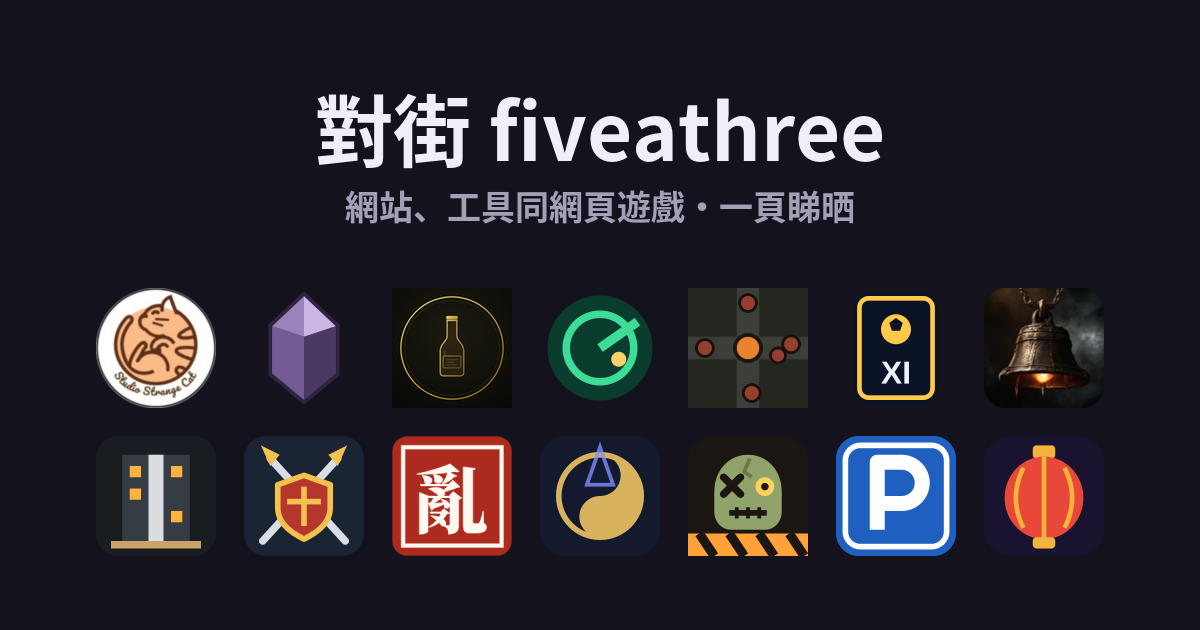
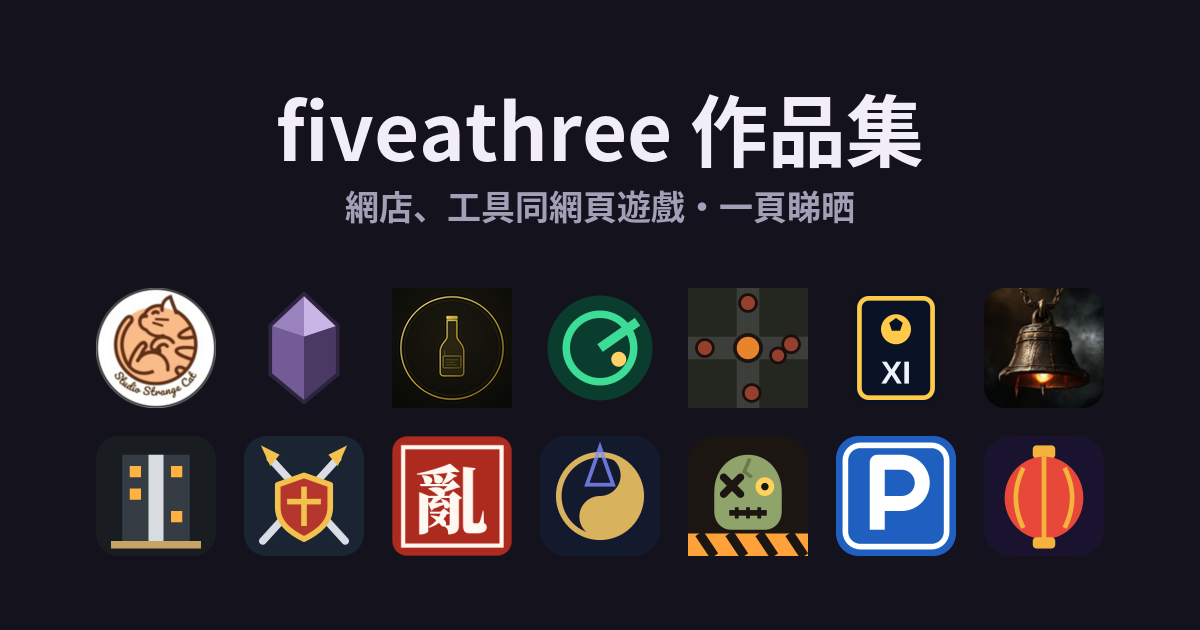
改用 AnL 式分頁（全部／網店／工具／遊戲＋遊戲子分類），拎走「對街」
Claude-Session: https://claude.ai/code/session_016rYcVTCdU8P3QRKu3TJWY2

Changed region(s): [[0.2158, 0.1508, 0.7708, 0.2714], [0.3083, 0.3016, 0.3392, 0.3619]]

diff --git a/index.html b/index.html
@@ -3,80 +3,129 @@
 <head>
 <meta charset="utf-8">
 <meta name="viewport" content="width=device-width, initial-scale=1">
-<title>對街 fiveathree｜作品集</title>
-<meta name="description" content="fiveathree 用 AI 做嘅網站、工具同網頁遊戲，一頁睇晒，撳入去即玩。">
+<title>fiveathree 作品集</title>
+<meta name="description" content="fiveathree 用 AI 做嘅網店、工具同網頁遊戲，一頁睇晒，撳入去即玩。">
 <link rel="icon" href="favicon.svg" type="image/svg+xml">
 <link rel="apple-touch-icon" href="apple-touch-icon.png">
 <meta property="og:type" content="website">
-<meta property="og:title" content="對街 fiveathree｜作品集">
-<meta property="og:description" content="網站、工具同網頁遊戲，一頁睇晒，撳入去即玩。">
+<meta property="og:title" content="fiveathree 作品集">
+<meta property="og:description" content="網店、工具同網頁遊戲，一頁睇晒，撳入去即玩。">
 <meta property="og:url" content="https://fiveathree.github.io/allstuff/">
 <meta property="og:image" content="https://fiveathree.github.io/allstuff/og.png">
 <meta name="twitter:card" content="summary_large_image">
 <style>
-  :root { --bg:#14121c; --card:#1f1c2b; --line:#2e2a40; --text:#f1eef8; --mute:#a39fb6; --acc:#ffb547; --game:#7fd6c2; }
+  :root { --bg:#14121c; --panel:#1f1c2b; --line:#2e2a40; --ink:#f1eef8; --ink2:#a39fb6; --accent:#ffb547; }
   * { box-sizing:border-box; margin:0; }
   body { font-family:system-ui,-apple-system,"PingFang TC","Noto Sans TC","Microsoft JhengHei",sans-serif;
-         background:var(--bg); color:var(--text); min-height:100dvh; display:flex; flex-direction:column;
-         padding:12px clamp(12px,3vw,32px); gap:8px; }
-  header { width:100%; max-width:1100px; margin:0 auto; display:flex; align-items:baseline; gap:12px; flex-wrap:wrap; }
-  h1 { font-size:22px; letter-spacing:.5px; }
-  h1 span { color:var(--acc); }
-  header p { color:var(--mute); font-size:13px; }
-  main { flex:1; display:grid; grid-template-columns:1fr 1fr; grid-auto-rows:minmax(44px,1fr); gap:6px;
-         width:100%; max-width:1100px; margin:0 auto; }
-  a.card { display:flex; align-items:center; gap:12px; padding:4px 12px; background:var(--card);
-           border:1px solid var(--line); border-radius:12px; color:inherit; text-decoration:none; min-width:0;
+         background:var(--bg); color:var(--ink); font-size:14px; }
+  .wrap { max-width:1100px; margin:0 auto; padding:0 clamp(12px,3vw,24px) 16px; }
+  .navwrap { position:sticky; top:0; z-index:5; background:var(--bg); box-shadow:0 6px 8px -8px rgba(0,0,0,.5); }
+  .top { display:flex; align-items:baseline; gap:12px; padding:12px 0 2px; flex-wrap:wrap; }
+  .top h1 { font-size:18px; }
+  .top p { color:var(--ink2); font-size:13px; }
+  .tabs { display:flex; gap:4px; border-bottom:1px solid var(--line); overflow-x:auto; }
+  .tabs button { border:0; background:none; font:inherit; color:var(--ink2); padding:9px 14px; cursor:pointer;
+                 border-bottom:2px solid transparent; white-space:nowrap; }
+  .tabs button[aria-selected="true"] { color:var(--ink); border-bottom-color:var(--accent); font-weight:600; }
+  .tabs .n { font-size:12px; color:var(--ink2); margin-left:4px; font-weight:400; }
+  .subtabs { display:flex; gap:6px; overflow-x:auto; padding:8px 0; }
+  .subtabs[hidden] { display:none; }
+  .subtabs button { border:1px solid var(--line); background:var(--panel); font:inherit; font-size:13px; color:var(--ink2);
+                    padding:4px 12px; border-radius:14px; cursor:pointer; white-space:nowrap; }
+  .subtabs button[aria-selected="true"] { background:var(--accent); border-color:var(--accent); color:var(--bg); font-weight:600; }
+  section { margin-top:10px; }
+  section h2 { font-size:13px; color:var(--ink2); font-weight:600; margin:0 0 4px 2px; }
+  .grid { display:grid; grid-template-columns:1fr 1fr; gap:6px; }
+  a.card { display:flex; align-items:center; gap:12px; padding:5px 12px; background:var(--panel);
+           border:1px solid var(--line); border-radius:10px; color:inherit; text-decoration:none; min-width:0;
            transition:transform .12s, border-color .12s; }
-  a.card:hover, a.card:focus-visible { transform:translateY(-2px); border-color:var(--acc); outline:none; }
-  a.card img { width:34px; height:34px; border-radius:9px; flex:none; object-fit:contain; }
-  .txt { min-width:0; }
-  .name { font-weight:700; font-size:15px; display:flex; gap:6px; align-items:center; }
-  .tag { font-size:11px; font-weight:600; padding:1px 6px; border-radius:6px; background:#ffb54722; color:var(--acc); }
-  .tag.g { background:#7fd6c222; color:var(--game); }
-  .desc { color:var(--mute); font-size:12.5px; white-space:nowrap; overflow:hidden; text-overflow:ellipsis; }
-  footer { text-align:center; color:var(--mute); font-size:12px; }
+  a.card:hover, a.card:focus-visible { transform:translateY(-2px); border-color:var(--accent); outline:none; }
+  a.card img { width:30px; height:30px; border-radius:8px; flex:none; object-fit:contain; }
+  .txt { min-width:0; display:flex; align-items:baseline; gap:10px; }
+  .desc { flex:1; }
+  body:not([data-cat="all"]) section h2 { display:none; }
+  .name { font-weight:700; font-size:15px; }
+  .desc { color:var(--ink2); font-size:12.5px; white-space:nowrap; overflow:hidden; text-overflow:ellipsis; }
+  [hidden] { display:none !important; }
+  footer { text-align:center; color:var(--ink2); font-size:12px; margin-top:14px; }
   @media (max-width:560px) {
     a.card { flex-direction:column; text-align:center; gap:3px; padding:8px 6px; }
-    .name { flex-direction:column; gap:2px; font-size:14px; }
-    .tag { display:none; }
-    .txt { width:100%; }
-    .desc { font-size:11.5px; max-width:100%; }
+    .txt { width:100%; display:block; }
+    .name { font-size:14px; }
+    .desc { font-size:11.5px; }
   }
 </style>
 </head>
 <body>
-<header>
-  <h1>對街 <span>fiveathree</span></h1>
-  <p>用 AI 做嘅網站、工具同網頁遊戲・撳入去即玩</p>
-</header>
+<div class="navwrap"><div class="wrap" style="padding-bottom:0">
+  <header class="top"><h1>fiveathree 作品集</h1><p>用 AI 做嘅網店、工具同網頁遊戲・撳入去即玩</p></header>
+  <nav class="tabs" id="tabs" role="tablist">
+    <button role="tab" data-cat="all" aria-selected="true">全部<span class="n">23</span></button>
+    <button role="tab" data-cat="shop">網店<span class="n">2</span></button>
+    <button role="tab" data-cat="tool">工具<span class="n">7</span></button>
+    <button role="tab" data-cat="game">遊戲<span class="n">14</span></button>
+  </nav>
+  <nav class="subtabs" id="subtabs" role="tablist" hidden>
+    <button role="tab" data-sub="all" aria-selected="true">全部</button>
+    <button role="tab" data-sub="act">動作冒險</button>
+    <button role="tab" data-sub="sim">策略經營</button>
+    <button role="tab" data-sub="fun">休閒模擬</button>
+  </nav>
+</div></div>
 
-<main>
-  <a class="card" href="https://fiveathree.github.io/strangecatstudio/"><img src="icons/strangecatstudio.png" alt=""><div class="txt"><div class="name">奇怪貓工作室<span class="tag">網站</span></div><div class="desc">手工宇宙玻璃、玻璃鑽石飾品同紀念琉璃訂製</div></div></a>
-  <a class="card" href="https://fiveathree.github.io/threesun/"><img src="icons/threesun.svg" alt=""><div class="txt"><div class="name">五行石室<span class="tag">網站</span></div><div class="desc">水晶網店，八字、塔羅、星盤等占算配水晶</div></div></a>
-  <a class="card" href="https://fiveathree.github.io/bottlesense/"><img src="icons/bottlesense.png" alt=""><div class="txt"><div class="name">BottleSense<span class="tag">工具</span></div><div class="desc">影酒標，AI 話你該開、該飲、該藏定該送</div></div></a>
-  <a class="card" href="https://bizidea.fiveathree.workers.dev/"><img src="icons/bizidea.svg" alt=""><div class="txt"><div class="name">BizIdea 商機雷達<span class="tag">工具</span></div><div class="desc">12 個地區每日熱搜同熱門話題，搵生意機會</div></div></a>
-  <a class="card" href="https://fiveathree.github.io/todayeat/"><img src="icons/todayeat.svg" alt=""><div class="txt"><div class="name">今日吃甚麼<span class="tag">工具</span></div><div class="desc">撳一下，輪盤幫你揀附近一間餐廳</div></div></a>
-  <a class="card" href="https://fiveathree.github.io/bball/"><img src="icons/bball.svg" alt=""><div class="txt"><div class="name">AI 籃球動作實驗室<span class="tag">工具</span></div><div class="desc">上載籃球片，骨架分析同示範動作並排對照</div></div></a>
-  <a class="card" href="https://fiveathree.github.io/ecosysbottle/"><img src="icons/ecosysbottle.svg" alt=""><div class="txt"><div class="name">生態瓶實驗室<span class="tag">工具</span></div><div class="desc">3D 生態瓶同水族箱模擬</div></div></a>
-  <a class="card" href="https://fiveathree.github.io/catstrangestudio/"><img src="icons/catstrangestudio.svg" alt=""><div class="txt"><div class="name">宇宙玻璃 Studio 3D<span class="tag">工具</span></div><div class="desc">工作室室內設計 3D 預覽同裝修規劃</div></div></a>
-  <a class="card" href="https://fiveathree.github.io/walking/"><img src="icons/walking.svg" alt=""><div class="txt"><div class="name">黃大仙漫步<span class="tag">工具</span></div><div class="desc">第一身視角喺 3D 城市模型入面行街</div></div></a>
-  <a class="card" href="https://fiveathree.github.io/OpenStreetZombie/"><img src="icons/OpenStreetZombie.svg" alt=""><div class="txt"><div class="name">屍城戰線<span class="tag g">遊戲</span></div><div class="desc">喪屍沿住高雄真實街道湧過嚟，帶隊友殺出重圍</div></div></a>
-  <a class="card" href="https://fiveathree.github.io/pkparking/"><img src="icons/pkparking.svg" alt=""><div class="txt"><div class="name">泊車地獄<span class="tag g">遊戲</span></div><div class="desc">香港地庫窄位泊車，定台灣騎樓機車格</div></div></a>
-  <a class="card" href="https://fiveathree.github.io/XIFM/"><img src="icons/XIFM.svg" alt=""><div class="txt"><div class="name">傳奇十一人<span class="tag g">遊戲</span></div><div class="desc">足球經理 × 抽卡，抽歷代球星打聯賽同盃賽</div></div></a>
-  <a class="card" href="https://fiveathree.github.io/ashenbell/"><img src="icons/ashenbell.png" alt=""><div class="txt"><div class="name">燼鐘 Ashen Bell<span class="tag g">遊戲</span></div><div class="desc">網頁暗黑動作角色扮演遊戲</div></div></a>
-  <a class="card" href="https://fiveathree.github.io/simtower/"><img src="icons/simtower.svg" alt=""><div class="txt"><div class="name">天際大廈<span class="tag g">遊戲</span></div><div class="desc">起樓、放租、安排電梯，經營到 TOWER 級</div></div></a>
-  <a class="card" href="https://fiveathree.github.io/mb/"><img src="icons/mb.svg" alt=""><div class="txt"><div class="name">鐵騎風雲<span class="tag g">遊戲</span></div><div class="desc">騎馬衝鋒、四方向劈砍、帶兵打天下</div></div></a>
-  <a class="card" href="https://fiveathree.github.io/San/"><img src="icons/San.svg" alt=""><div class="txt"><div class="name">三國亂世錄<span class="tag g">遊戲</span></div><div class="desc">以任何武將身分出發嘅三國策略遊戲</div></div></a>
-  <a class="card" href="https://fiveathree.github.io/fairymagic/"><img src="icons/fairymagic.svg" alt=""><div class="txt"><div class="name">仙魔雙修<span class="tag g">遊戲</span></div><div class="desc">修真 × 魔法學院，融合屬性自創武學</div></div></a>
-  <a class="card" href="https://fiveathree.github.io/dan/"><img src="icons/dan.svg" alt=""><div class="txt"><div class="name">九轉丹房<span class="tag g">遊戲</span></div><div class="desc">修仙煉丹模擬器</div></div></a>
-  <a class="card" href="https://fiveathree.github.io/cookrice/"><img src="icons/cookrice.svg" alt=""><div class="txt"><div class="name">煮飯仔<span class="tag g">遊戲</span></div><div class="desc">揀食材、幫手同煮法，按次序落鑊睇下煮成點</div></div></a>
-  <a class="card" href="https://fiveathree.github.io/zomibee/"><img src="icons/zomibee.svg" alt=""><div class="txt"><div class="name">屍城日誌<span class="tag g">遊戲</span></div><div class="desc">喪屍末日回合制生存，招募倖存者撐過每一晚</div></div></a>
-  <a class="card" href="https://fiveathree.github.io/twnightmarket/"><img src="icons/twnightmarket.svg" alt=""><div class="txt"><div class="name">台幣夜市遊戲街<span class="tag g">遊戲</span></div><div class="desc">射氣球、套圈圈、開攤賣雞排珍奶</div></div></a>
-  <a class="card" href="https://fiveathree.github.io/sandefense/"><img src="icons/sandefense.svg" alt=""><div class="txt"><div class="name">長坂坡字陣<span class="tag g">遊戲</span></div><div class="desc">三國合字塔防，趙雲救阿斗</div></div></a>
-  <a class="card" href="https://fiveathree.github.io/snake/"><img src="icons/snake.svg" alt=""><div class="txt"><div class="name">截蛇大亂鬥<span class="tag g">遊戲</span></div><div class="desc">貪食蛇大亂鬥，截住人哋條蛇食佢</div></div></a>
+<main class="wrap">
+  <section data-cat="shop"><h2>網店</h2><div class="grid">
+    <a class="card" href="https://fiveathree.github.io/strangecatstudio/"><img src="icons/strangecatstudio.png" alt=""><div class="txt"><div class="name">奇怪貓工作室</div><div class="desc">手工宇宙玻璃、玻璃鑽石飾品同紀念琉璃訂製</div></div></a>
+    <a class="card" href="https://fiveathree.github.io/threesun/"><img src="icons/threesun.svg" alt=""><div class="txt"><div class="name">五行石室</div><div class="desc">水晶網店，八字、塔羅、星盤等占算配水晶</div></div></a>
+  </div></section>
+
+  <section data-cat="tool"><h2>工具</h2><div class="grid">
+    <a class="card" href="https://fiveathree.github.io/bottlesense/"><img src="icons/bottlesense.png" alt=""><div class="txt"><div class="name">BottleSense</div><div class="desc">影酒標，AI 話你該開、該飲、該藏定該送</div></div></a>
+    <a class="card" href="https://bizidea.fiveathree.workers.dev/"><img src="icons/bizidea.svg" alt=""><div class="txt"><div class="name">BizIdea 商機雷達</div><div class="desc">12 個地區每日熱搜同熱門話題，搵生意機會</div></div></a>
+    <a class="card" href="https://fiveathree.github.io/todayeat/"><img src="icons/todayeat.svg" alt=""><div class="txt"><div class="name">今日吃甚麼</div><div class="desc">撳一下，輪盤幫你揀附近一間餐廳</div></div></a>
+    <a class="card" href="https://fiveathree.github.io/bball/"><img src="icons/bball.svg" alt=""><div class="txt"><div class="name">AI 籃球動作實驗室</div><div class="desc">上載籃球片，骨架分析同示範動作並排對照</div></div></a>
+    <a class="card" href="https://fiveathree.github.io/ecosysbottle/"><img src="icons/ecosysbottle.svg" alt=""><div class="txt"><div class="name">生態瓶實驗室</div><div class="desc">3D 生態瓶同水族箱模擬</div></div></a>
+    <a class="card" href="https://fiveathree.github.io/catstrangestudio/"><img src="icons/catstrangestudio.svg" alt=""><div class="txt"><div class="name">宇宙玻璃 Studio 3D</div><div class="desc">工作室室內設計 3D 預覽同裝修規劃</div></div></a>
+    <a class="card" href="https://fiveathree.github.io/walking/"><img src="icons/walking.svg" alt=""><div class="txt"><div class="name">黃大仙漫步</div><div class="desc">第一身視角喺 3D 城市模型入面行街</div></div></a>
+  </div></section>
+
+  <section data-cat="game"><h2>遊戲</h2><div class="grid">
+    <a class="card" data-sub="act" href="https://fiveathree.github.io/OpenStreetZombie/"><img src="icons/OpenStreetZombie.svg" alt=""><div class="txt"><div class="name">屍城戰線</div><div class="desc">喪屍沿住高雄真實街道湧過嚟，帶隊友殺出重圍</div></div></a>
+    <a class="card" data-sub="act" href="https://fiveathree.github.io/ashenbell/"><img src="icons/ashenbell.png" alt=""><div class="txt"><div class="name">燼鐘 Ashen Bell</div><div class="desc">網頁暗黑動作角色扮演遊戲</div></div></a>
+    <a class="card" data-sub="act" href="https://fiveathree.github.io/mb/"><img src="icons/mb.svg" alt=""><div class="txt"><div class="name">鐵騎風雲</div><div class="desc">騎馬衝鋒、四方向劈砍、帶兵打天下</div></div></a>
+    <a class="card" data-sub="act" href="https://fiveathree.github.io/snake/"><img src="icons/snake.svg" alt=""><div class="txt"><div class="name">截蛇大亂鬥</div><div class="desc">貪食蛇大亂鬥，截住人哋條蛇食佢</div></div></a>
+    <a class="card" data-sub="sim" href="https://fiveathree.github.io/XIFM/"><img src="icons/XIFM.svg" alt=""><div class="txt"><div class="name">傳奇十一人</div><div class="desc">足球經理 × 抽卡，抽歷代球星打聯賽同盃賽</div></div></a>
+    <a class="card" data-sub="sim" href="https://fiveathree.github.io/simtower/"><img src="icons/simtower.svg" alt=""><div class="txt"><div class="name">天際大廈</div><div class="desc">起樓、放租、安排電梯，經營到 TOWER 級</div></div></a>
+    <a class="card" data-sub="sim" href="https://fiveathree.github.io/San/"><img src="icons/San.svg" alt=""><div class="txt"><div class="name">三國亂世錄</div><div class="desc">以任何武將身分出發嘅三國策略遊戲</div></div></a>
+    <a class="card" data-sub="sim" href="https://fiveathree.github.io/zomibee/"><img src="icons/zomibee.svg" alt=""><div class="txt"><div class="name">屍城日誌</div><div class="desc">喪屍末日回合制生存，招募倖存者撐過每一晚</div></div></a>
+    <a class="card" data-sub="sim" href="https://fiveathree.github.io/sandefense/"><img src="icons/sandefense.svg" alt=""><div class="txt"><div class="name">長坂坡字陣</div><div class="desc">三國合字塔防，趙雲救阿斗</div></div></a>
+    <a class="card" data-sub="sim" href="https://fiveathree.github.io/fairymagic/"><img src="icons/fairymagic.svg" alt=""><div class="txt"><div class="name">仙魔雙修</div><div class="desc">修真 × 魔法學院，融合屬性自創武學</div></div></a>
+    <a class="card" data-sub="fun" href="https://fiveathree.github.io/pkparking/"><img src="icons/pkparking.svg" alt=""><div class="txt"><div class="name">泊車地獄</div><div class="desc">香港地庫窄位泊車，定台灣騎樓機車格</div></div></a>
+    <a class="card" data-sub="fun" href="https://fiveathree.github.io/dan/"><img src="icons/dan.svg" alt=""><div class="txt"><div class="name">九轉丹房</div><div class="desc">修仙煉丹模擬器</div></div></a>
+    <a class="card" data-sub="fun" href="https://fiveathree.github.io/cookrice/"><img src="icons/cookrice.svg" alt=""><div class="txt"><div class="name">煮飯仔</div><div class="desc">揀食材、幫手同煮法，按次序落鑊睇下煮成點</div></div></a>
+    <a class="card" data-sub="fun" href="https://fiveathree.github.io/twnightmarket/"><img src="icons/twnightmarket.svg" alt=""><div class="txt"><div class="name">台幣夜市遊戲街</div><div class="desc">射氣球、套圈圈、開攤賣雞排珍奶</div></div></a>
+  </div></section>
+
+  <footer>© fiveathree</footer>
 </main>
 
-<footer>© fiveathree</footer>
+<script>
+  const tabs = document.getElementById('tabs'), subtabs = document.getElementById('subtabs');
+  const pick = (nav, btn) => nav.querySelectorAll('button').forEach(b => b.setAttribute('aria-selected', b === btn));
+  function show(cat, sub) {
+    if (!['act','sim','fun'].includes(sub)) sub = 'all';
+    pick(tabs, tabs.querySelector(`[data-cat="${cat}"]`) || tabs.firstElementChild);
+    pick(subtabs, subtabs.querySelector(`[data-sub="${sub}"]`));
+    subtabs.hidden = cat !== 'game';
+    document.body.dataset.cat = cat;
+    document.querySelectorAll('main section').forEach(s => s.hidden = cat !== 'all' && s.dataset.cat !== cat);
+    document.querySelectorAll('a[data-sub]').forEach(a => a.hidden = cat === 'game' && sub !== 'all' && a.dataset.sub !== sub);
+    history.replaceState(null, '', cat === 'all' ? location.pathname : '#' + cat + (cat === 'game' && sub !== 'all' ? '-' + sub : ''));
+  }
+  tabs.onclick = e => { const b = e.target.closest('button'); if (b) show(b.dataset.cat, 'all'); };
+  subtabs.onclick = e => { const b = e.target.closest('button'); if (b) show('game', b.dataset.sub); };
+  const [c, s] = location.hash.slice(1).split('-');
+  show(['shop','tool','game'].includes(c) ? c : 'all', s || 'all');
+</script>
 </body>
 </html>
